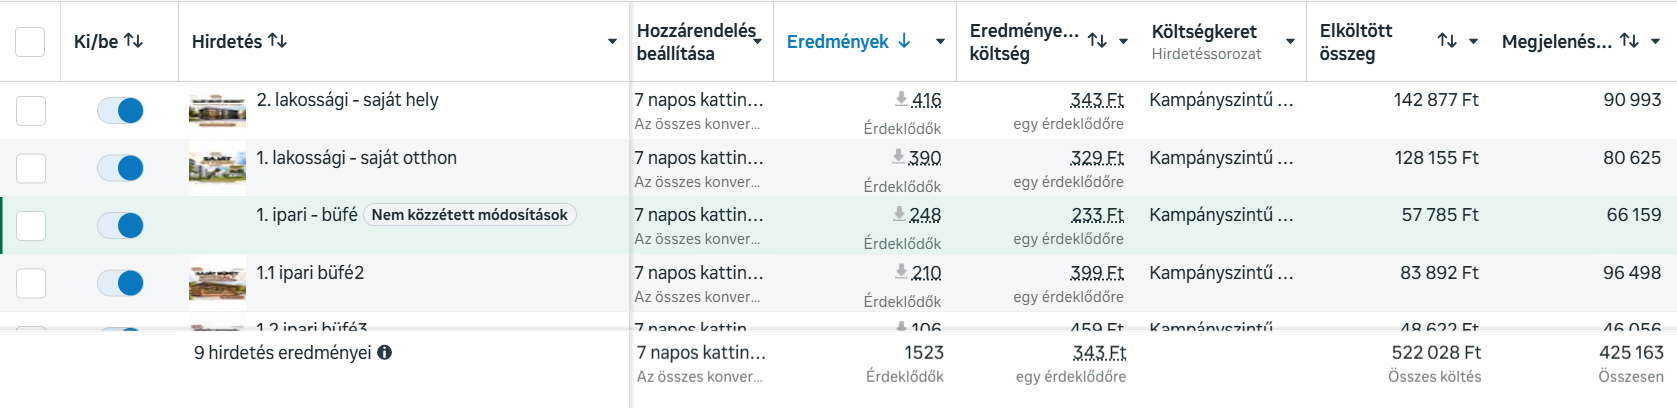
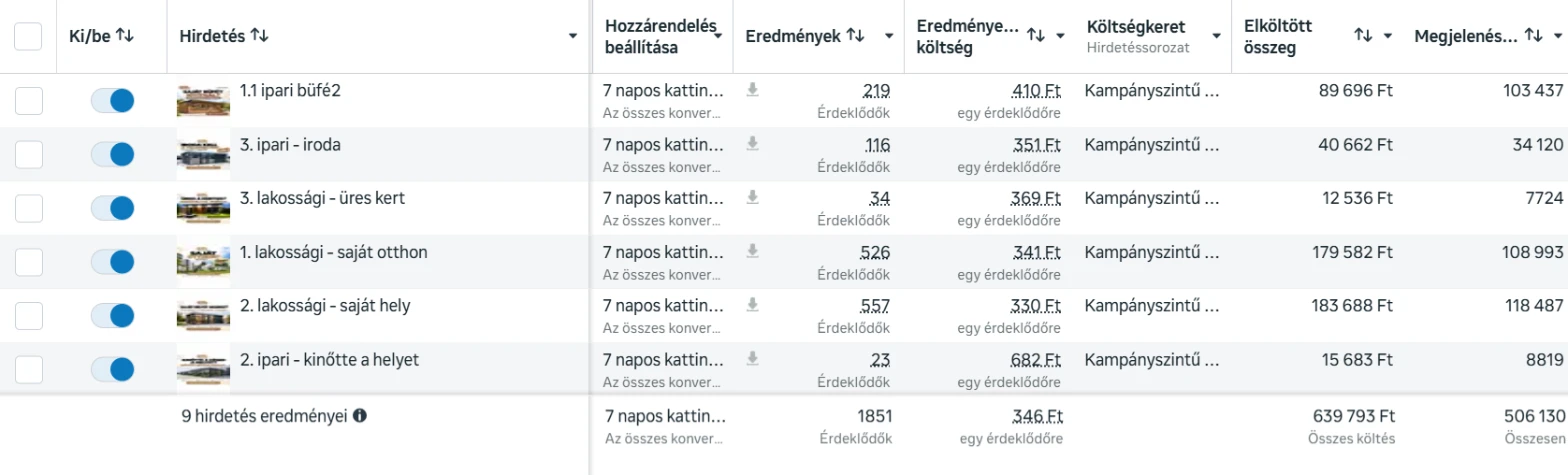
Refresh mobilház Ads Manager screenshot
New capture from Ads Manager (full campaign duration, 2026-11-17): 1 851 leads, 346 Ft each, 639 793 Ft spend. Circle and underline moved to the new total row.

diff --git a/src/data/cases.ts b/src/data/cases.ts
@@ -73,11 +73,11 @@ export const cases: CaseStudy[] = [
     imageOnly: true,
     logo: "mobilhazgyarto",
     website: "https://mobilhazgyarto.hu/",
-    // a számok a hirdetéskezelő szerint (2026. nov. 17., teljes időtartam: 639 776 Ft / 1 851 = 345,63 Ft); a képernyőkép még a nov. 5-i állapot
+    // a számok és a képernyőkép a hirdetéskezelő szerint (2026. nov. 17., teljes időtartam: 639 793 Ft / 1 851 = 345,65 Ft)
     shots: [
-      { src: "/images/case-studies/kampany/mobilhaz-ref.webp", width: 1677, height: 408, circle: { x: 49.85, y: 81.1, w: 8.2, h: 16.2 }, underline: { x: 60.5, y: 94.6, w: 6.8 } },
+      { src: "/images/case-studies/kampany/mobilhaz-ref.webp", width: 1568, height: 475, circle: { x: 50.38, y: 83.16, w: 8.42, h: 13.26 }, underline: { x: 61.16, y: 94.11, w: 6.82 } },
     ],
-    results: { count: 1851, unit: "ajánlatkérés", costPer: 346, dailySpend: 10000, monthlySpend: 300000, spend: 639776, spendLabel: "Eddigi költés" },
+    results: { count: 1851, unit: "ajánlatkérés", costPer: 346, dailySpend: 10000, monthlySpend: 300000, spend: 639793, spendLabel: "Eddigi költés" },
   },
   {
     // foglalások az Amelia foglalási rendszerből (2026. okt. 18. – nov. 1. között leadott, nem lemondott foglalások);
